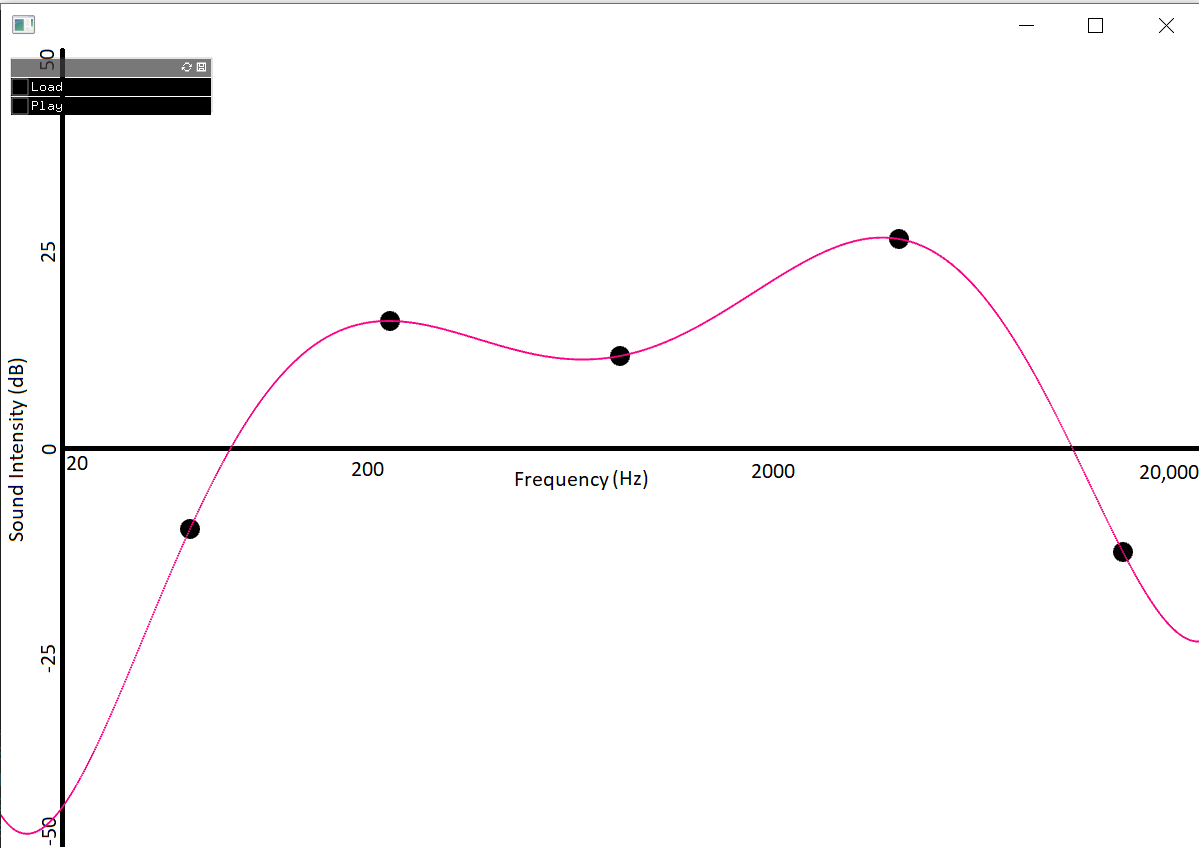
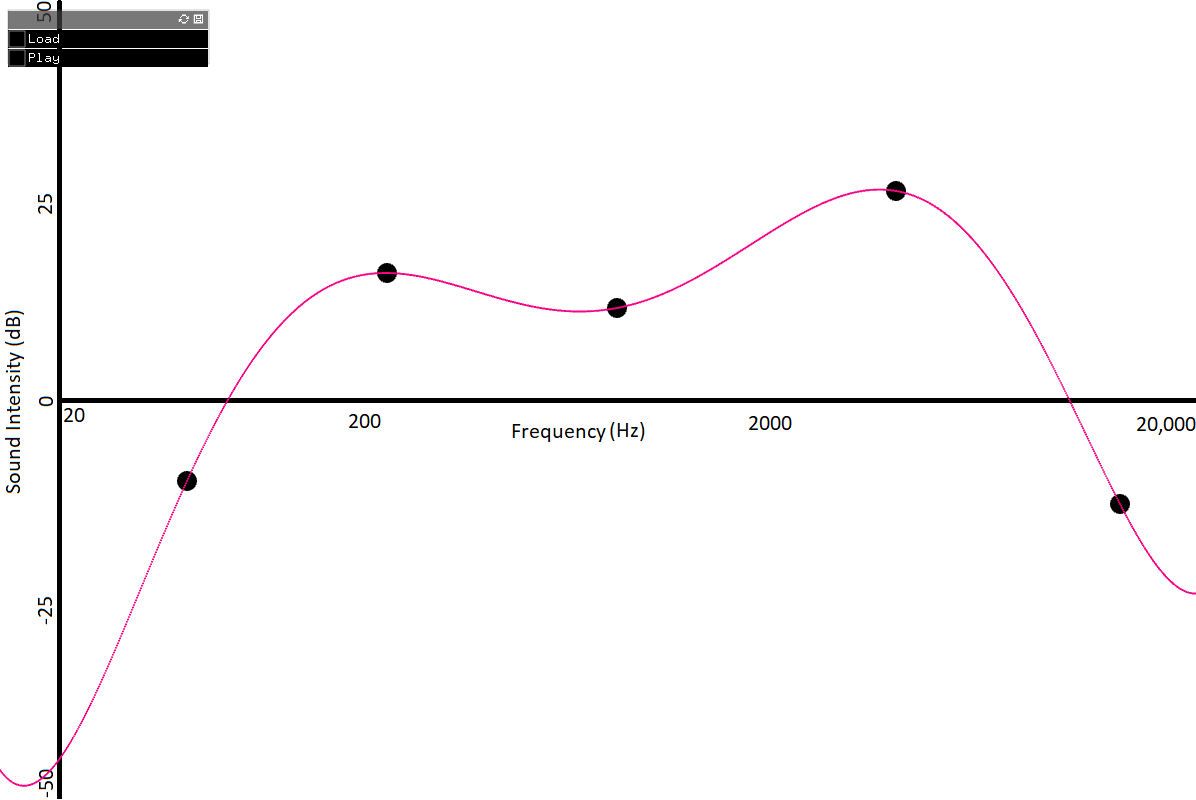
Fixed formatting on readme and resized example image

diff --git a/fantastic-finale-imbr92/README.md b/fantastic-finale-imbr92/README.md
@@ -8,8 +8,8 @@ This project is an attempt at making a parametric equalizer that can be used on 
 * [ofxGUI](https://openframeworks.cc/documentation/ofxGui/) for the GUI (polynomial visualization, buttons etc.)
 
 ## How to run 
-* Install [g++]
-* Install [Visual Studio]
+* Install g++
+* Install Visual Studio
 * Install dependencies (see Dependencies)
 * Download project source code
 * Set Output Path in kOutPath and kOutPathv2
